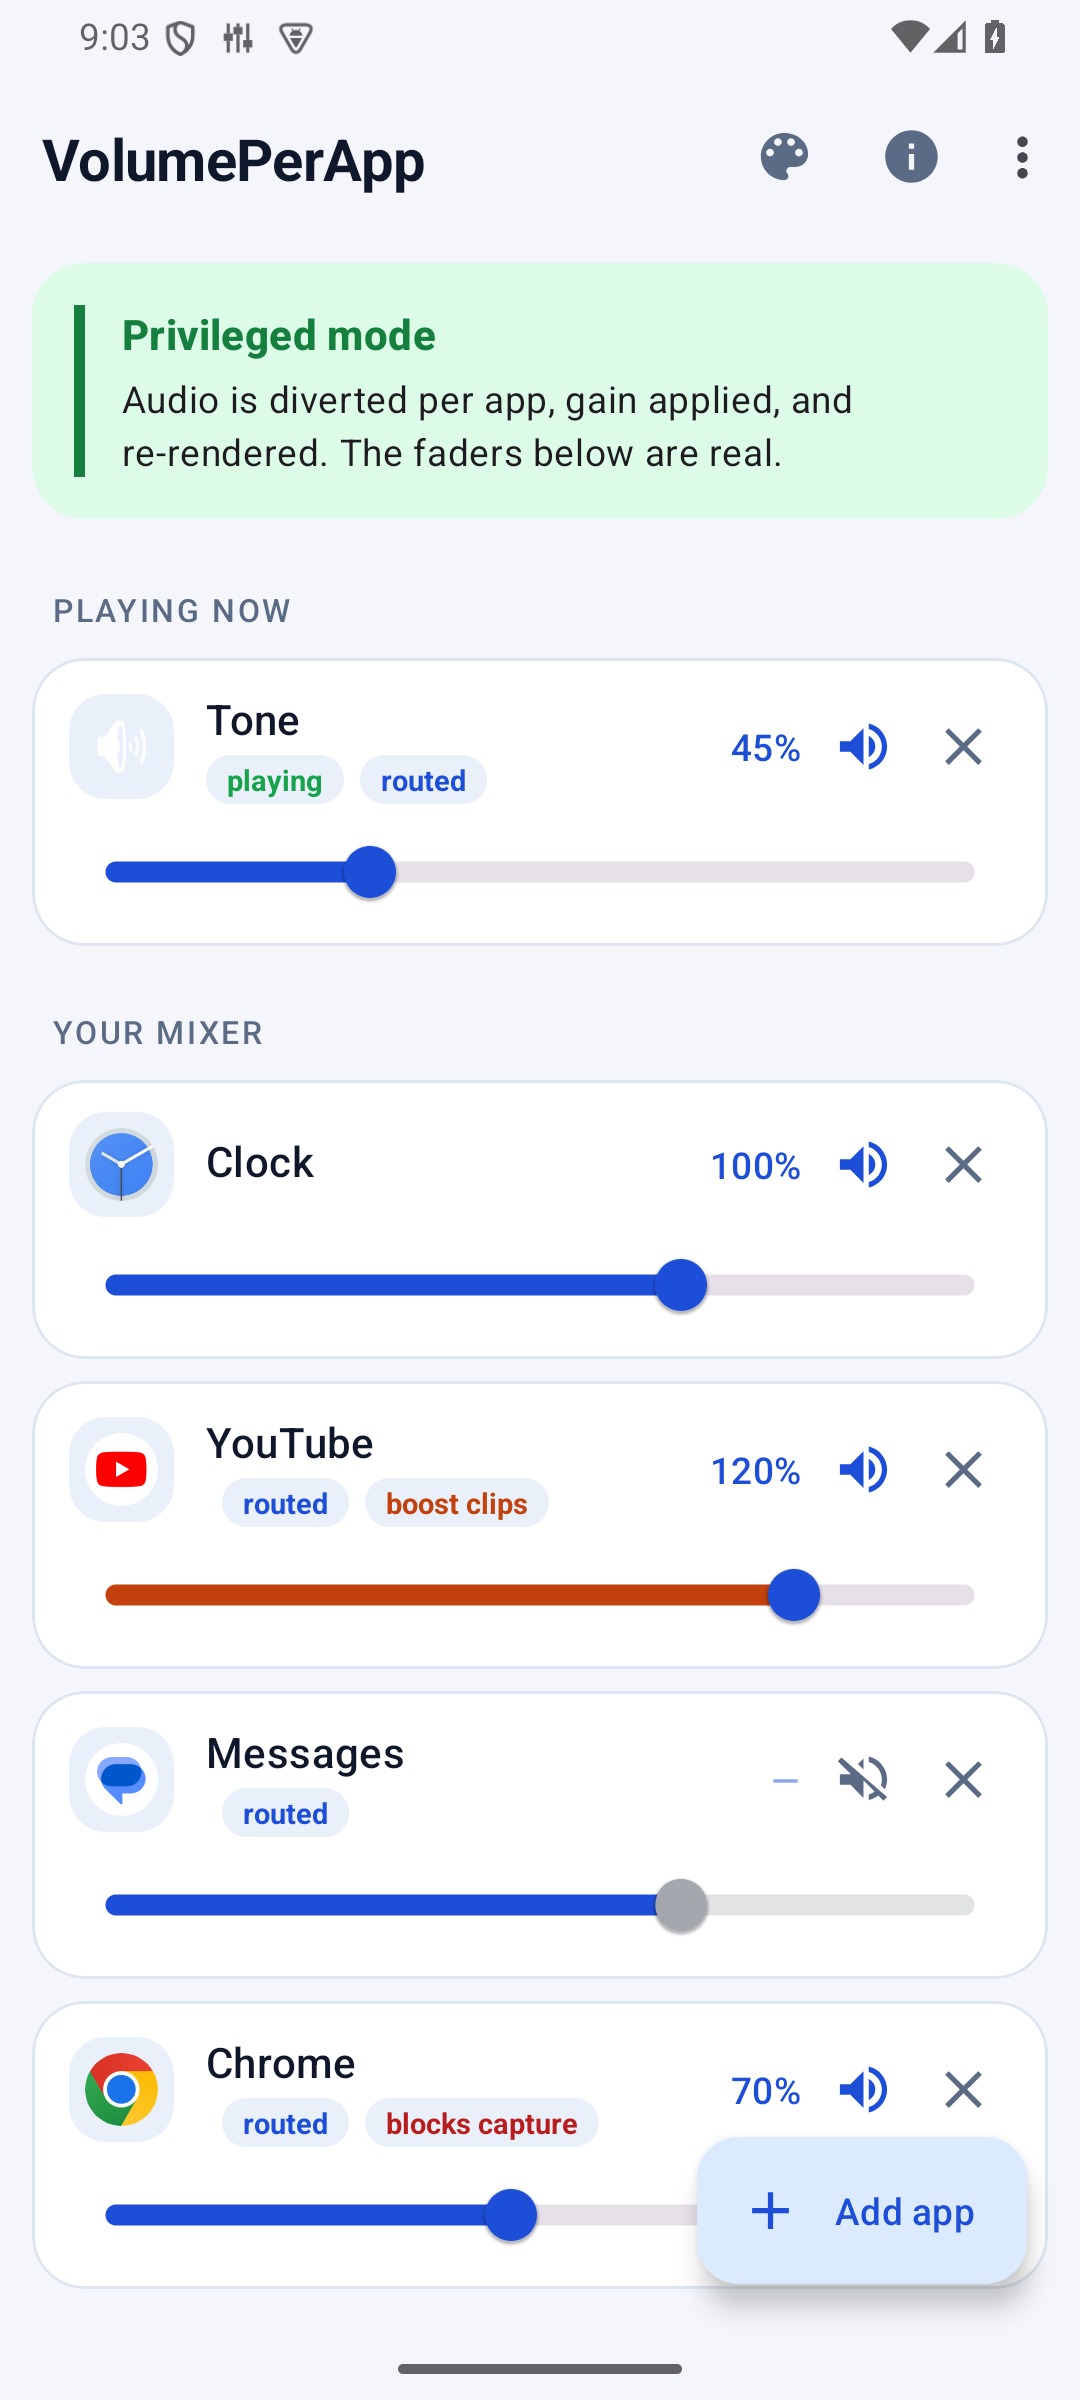
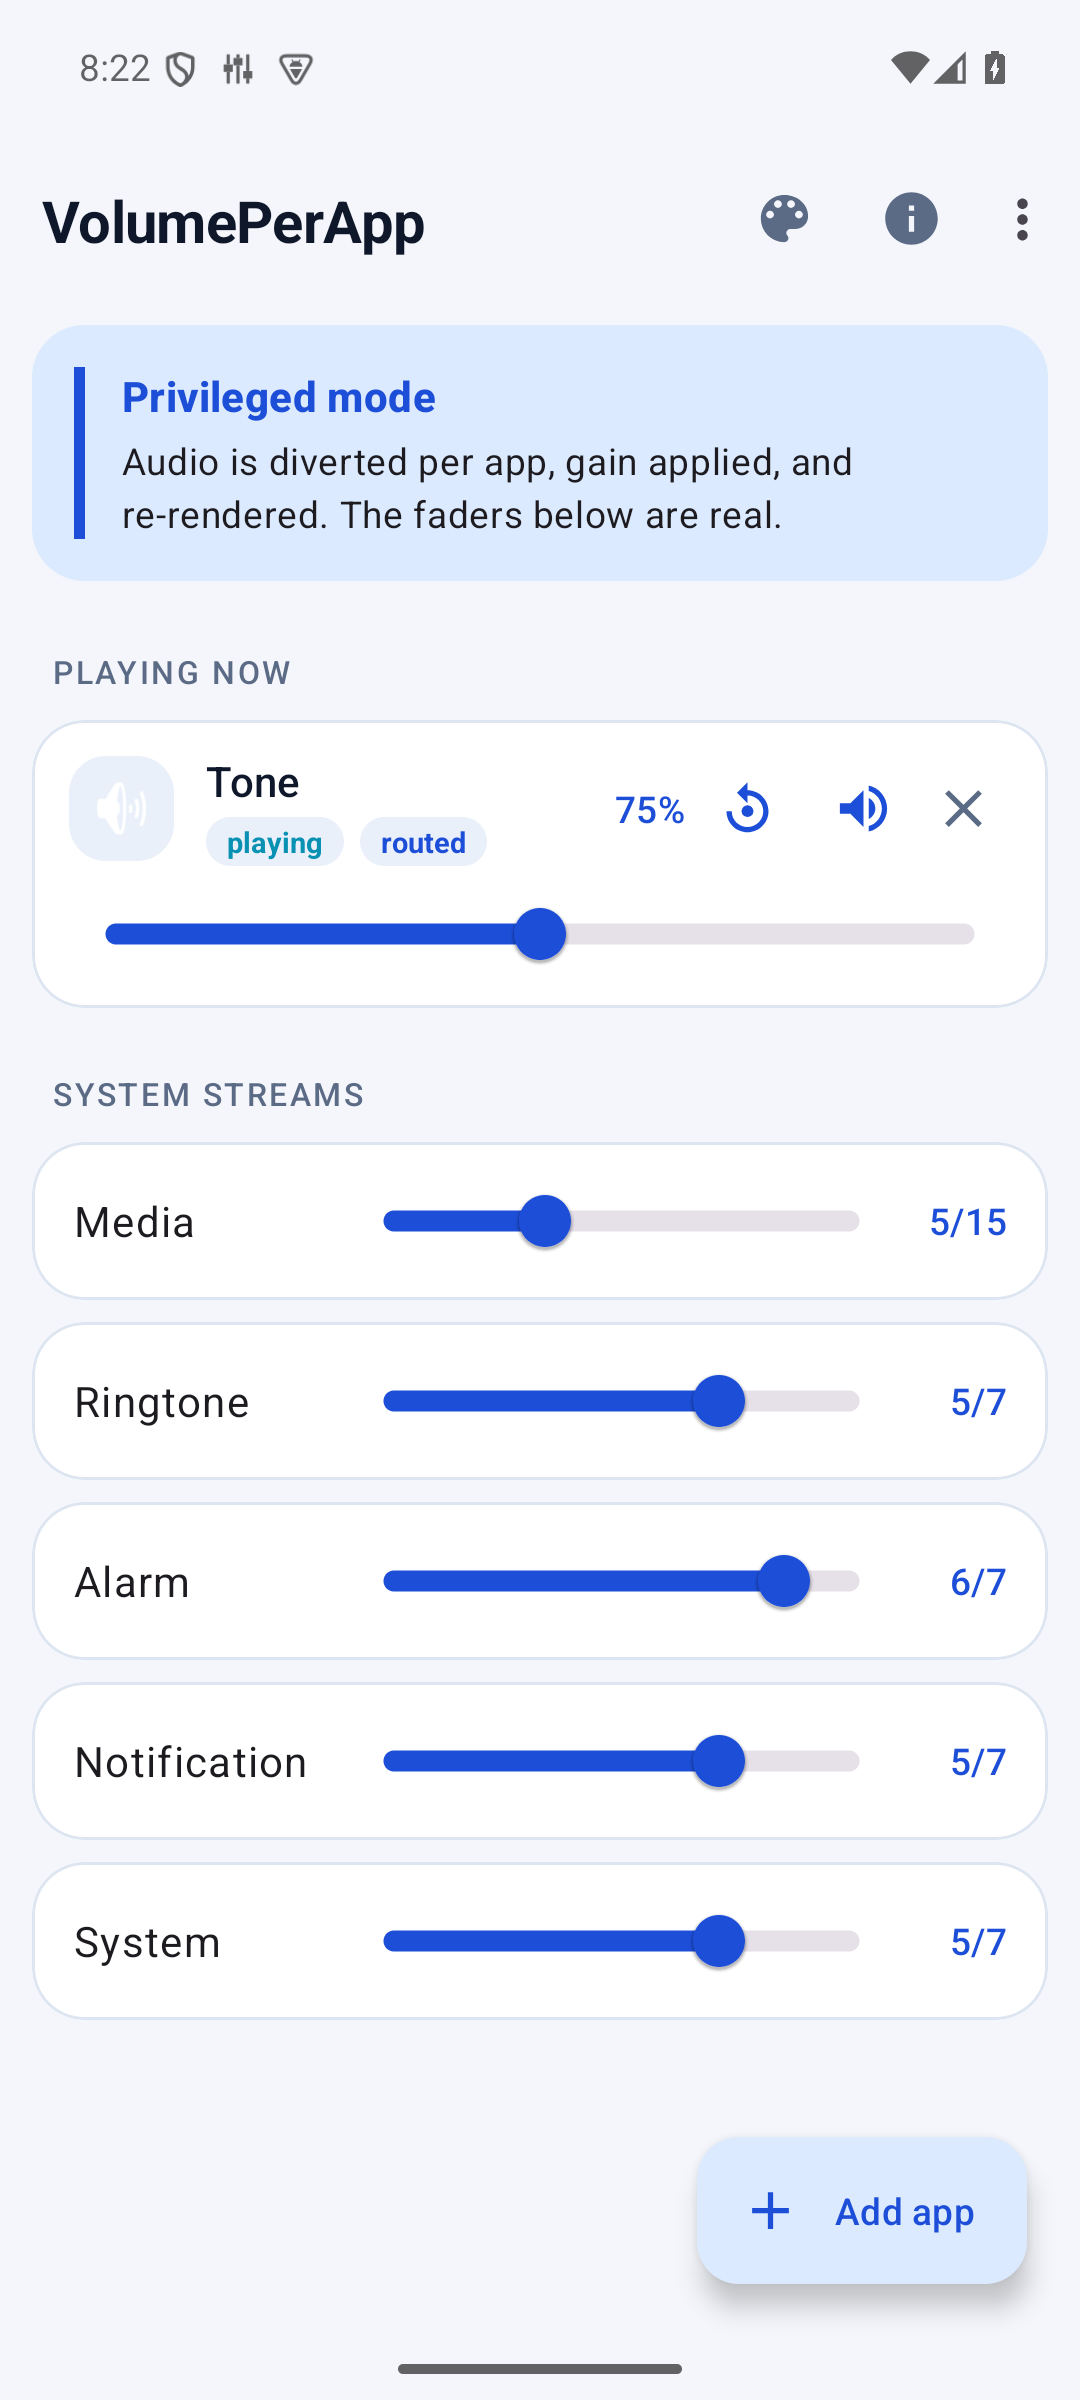
docs: record the new fader controls, and what the emulator does not prove
Adds a Using it section covering the reset button, the 100 % detent and
the Playing now behaviour, none of which the README mentioned.

More importantly, qualifies the verification claim. The measured-gain
table is real and the emulator proves the engine - but the AOSP emulator
does not enforce MODIFY_AUDIO_ROUTING, so a build installed to /data/app
under a different application id, permission ungranted, still registers
its policy. A working emulator build is therefore not evidence that the
Magisk module is doing anything. Only a real device shows that, and the
README now says so rather than implying otherwise.

Light-mode screenshots retaken: the committed ones predated the theming
fix and showed the green banner this release removed. Also drops
mixer-ocean-reset.png, which was a byte-identical duplicate of
mixer-ocean-dark.png.

diff --git a/README.md b/README.md
@@ -46,6 +46,21 @@ Without root the app still installs and runs, in **Limited mode**: the system
 stream faders work, playback detection works, and the per-app faders are visibly
 marked as inert rather than silently doing nothing.
 
+## Using it
+
+Each app gets a channel strip: a fader from 0 % to the ceiling you choose
+(100 / 150 / 200 / 400 %), a mute, and a **reset** that puts it back to 100 % and
+unmutes in one tap. The reset only appears once a strip is adjusted, so a strip
+at 100 % stays uncluttered.
+
+The fader also has a **detent at 100 %** — release within 2 % and it lands
+exactly on 100, because a one-step slider across that range otherwise makes 100 a
+pixel-wide target. It snaps on release rather than mid-drag, so a deliberate 93 %
+is left alone.
+
+Apps currently making sound are pinned to the top under **Playing now**, whether
+or not you have added them.
+
 ## Install
 
 1. Flash `dist/VolumePerApp-magisk-v<version>.zip` in Magisk → Modules →
@@ -147,6 +162,14 @@ scale. Route it, set a fader, and read the numbers back:
 Measured on Android 15 / API 35 with the signed release build installed as a
 priv-app. `dumpsys audio` independently confirms the diversion: the routed app
 sits on the remote-submix device while VolumePerApp holds the speaker.
+
+**What the emulator does and does not prove.** It proves the engine: the gain
+numbers above are real, and the diversion is visible from outside the app. It
+does **not** prove the permission plumbing — the AOSP emulator does not enforce
+`MODIFY_AUDIO_ROUTING`, and a build installed to `/data/app` under a different
+application id, with the permission ungranted and no `PRIVILEGED` flag, still
+registers its policy successfully there. So a working emulator build is not
+evidence that the Magisk module is doing anything. Only a real device shows that.
 
 The same build has since been flashed as a Magisk module on a OnePlus 12
 (Android 15, OxygenOS V15.0.0, Magisk 30.1) and works there, so the numbers above
